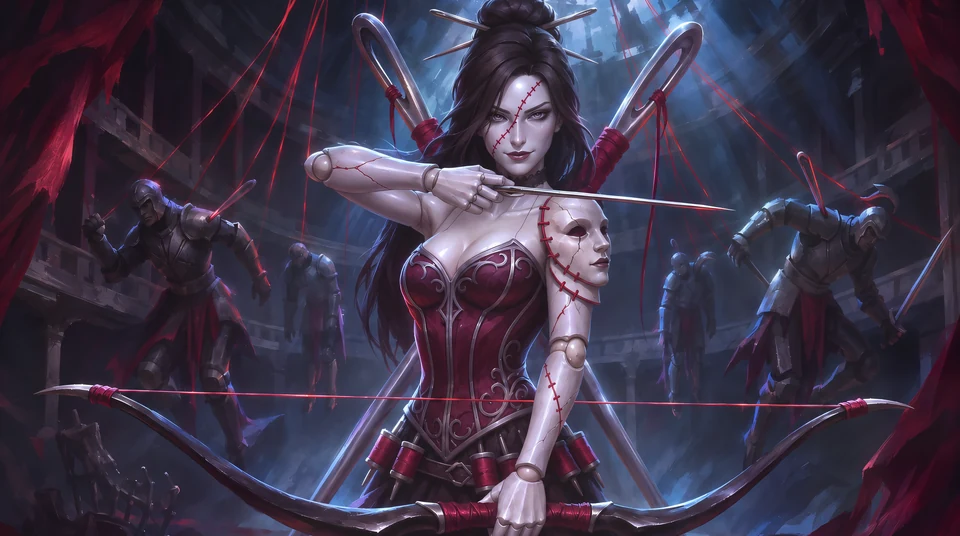
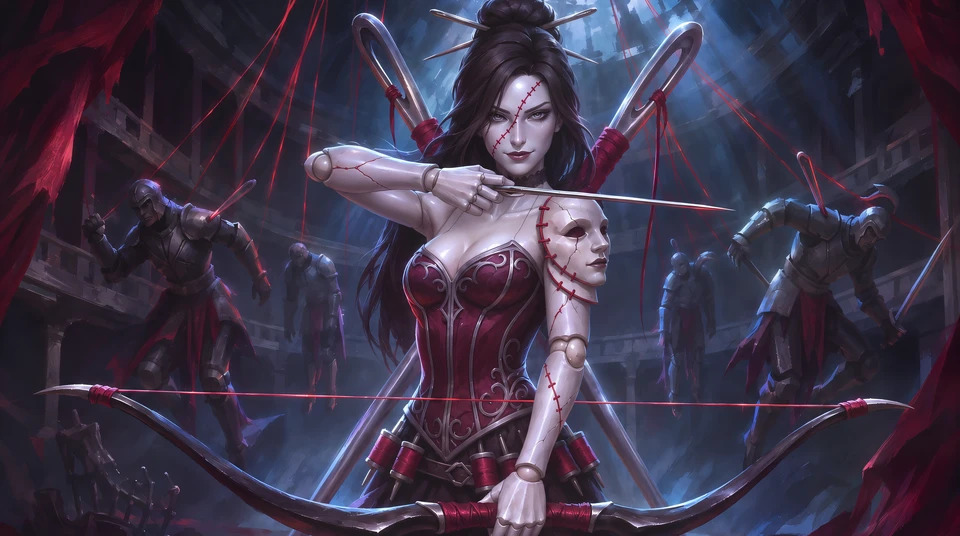
Hunter splash: Lace B bust -10% (L2, owner 11-14)
Claude-Session: https://claude.ai/code/session_01Fa986kEoxoUbsf7VZzVwQa

Changed region(s): [[0.375, 0.3881, 0.6562, 0.6567]]

diff --git a/presskit.html b/presskit.html
@@ -101,19 +101,19 @@
         </div>
         <h2>Hunter art</h2>
         <div class="pk-grid">
-          <a href="assets/img/hunters/lisette-2400.webp?v=2026-11-14x09" target="_blank"><img src="assets/img/hunters/lisette-960.webp?v=2026-11-14x09" alt="Lace splash art" loading="lazy"><span class="pk-cap">Lace</span></a>
-          <a href="assets/img/hunters/breaker-2400.webp?v=2026-11-14x09" target="_blank"><img src="assets/img/hunters/breaker-960.webp?v=2026-11-14x09" alt="Albert splash art" loading="lazy"><span class="pk-cap">Albert</span></a>
-          <a href="assets/img/hunters/vex-2400.webp?v=2026-11-14x09" target="_blank"><img src="assets/img/hunters/vex-960.webp?v=2026-11-14x09" alt="Vex splash art" loading="lazy"><span class="pk-cap">Vex</span></a>
-          <a href="assets/img/hunters/kael-2400.webp?v=2026-11-14x09" target="_blank"><img src="assets/img/hunters/kael-960.webp?v=2026-11-14x09" alt="Kael splash art" loading="lazy"><span class="pk-cap">Kael</span></a>
-          <a href="assets/img/hunters/claire-2400.webp?v=2026-11-14x09" target="_blank"><img src="assets/img/hunters/claire-960.webp?v=2026-11-14x09" alt="Neve splash art" loading="lazy"><span class="pk-cap">Neve</span></a>
-          <a href="assets/img/hunters/cinder-2400.webp?v=2026-11-14x09" target="_blank"><img src="assets/img/hunters/cinder-960.webp?v=2026-11-14x09" alt="Cinder splash art" loading="lazy"><span class="pk-cap">Cinder</span></a>
-          <a href="assets/img/hunters/tarek-2400.webp?v=2026-11-14x09" target="_blank"><img src="assets/img/hunters/tarek-960.webp?v=2026-11-14x09" alt="Tenzo splash art" loading="lazy"><span class="pk-cap">Tenzo</span></a>
-          <a href="assets/img/hunters/ryzz-2400.webp?v=2026-11-14x09" target="_blank"><img src="assets/img/hunters/ryzz-960.webp?v=2026-11-14x09" alt="Sparkle splash art" loading="lazy"><span class="pk-cap">Sparkle</span></a>
-          <a href="assets/img/hunters/grimble-2400.webp?v=2026-11-14x09" target="_blank"><img src="assets/img/hunters/grimble-960.webp?v=2026-11-14x09" alt="Grimble splash art" loading="lazy"><span class="pk-cap">Grimble</span></a>
-          <a href="assets/img/hunters/pip-2400.webp?v=2026-11-14x09" target="_blank"><img src="assets/img/hunters/pip-960.webp?v=2026-11-14x09" alt="Meeko splash art" loading="lazy"><span class="pk-cap">Meeko</span></a>
-          <a href="assets/img/hunters/sable-2400.webp?v=2026-11-14x09" target="_blank"><img src="assets/img/hunters/sable-960.webp?v=2026-11-14x09" alt="Sable splash art" loading="lazy"><span class="pk-cap">Sable</span></a>
-          <a href="assets/img/hunters/gill-2400.webp?v=2026-11-14x09" target="_blank"><img src="assets/img/hunters/gill-960.webp?v=2026-11-14x09" alt="Gill splash art" loading="lazy"><span class="pk-cap">Gill</span></a>
-          <a href="assets/img/hunters/motley-2400.webp?v=2026-11-14x09" target="_blank"><img src="assets/img/hunters/motley-960.webp?v=2026-11-14x09" alt="Motley splash art" loading="lazy"><span class="pk-cap">Motley</span></a>
+          <a href="assets/img/hunters/lisette-2400.webp?v=2026-11-14x18" target="_blank"><img src="assets/img/hunters/lisette-960.webp?v=2026-11-14x18" alt="Lace splash art" loading="lazy"><span class="pk-cap">Lace</span></a>
+          <a href="assets/img/hunters/breaker-2400.webp?v=2026-11-14x18" target="_blank"><img src="assets/img/hunters/breaker-960.webp?v=2026-11-14x18" alt="Albert splash art" loading="lazy"><span class="pk-cap">Albert</span></a>
+          <a href="assets/img/hunters/vex-2400.webp?v=2026-11-14x18" target="_blank"><img src="assets/img/hunters/vex-960.webp?v=2026-11-14x18" alt="Vex splash art" loading="lazy"><span class="pk-cap">Vex</span></a>
+          <a href="assets/img/hunters/kael-2400.webp?v=2026-11-14x18" target="_blank"><img src="assets/img/hunters/kael-960.webp?v=2026-11-14x18" alt="Kael splash art" loading="lazy"><span class="pk-cap">Kael</span></a>
+          <a href="assets/img/hunters/claire-2400.webp?v=2026-11-14x18" target="_blank"><img src="assets/img/hunters/claire-960.webp?v=2026-11-14x18" alt="Neve splash art" loading="lazy"><span class="pk-cap">Neve</span></a>
+          <a href="assets/img/hunters/cinder-2400.webp?v=2026-11-14x18" target="_blank"><img src="assets/img/hunters/cinder-960.webp?v=2026-11-14x18" alt="Cinder splash art" loading="lazy"><span class="pk-cap">Cinder</span></a>
+          <a href="assets/img/hunters/tarek-2400.webp?v=2026-11-14x18" target="_blank"><img src="assets/img/hunters/tarek-960.webp?v=2026-11-14x18" alt="Tenzo splash art" loading="lazy"><span class="pk-cap">Tenzo</span></a>
+          <a href="assets/img/hunters/ryzz-2400.webp?v=2026-11-14x18" target="_blank"><img src="assets/img/hunters/ryzz-960.webp?v=2026-11-14x18" alt="Sparkle splash art" loading="lazy"><span class="pk-cap">Sparkle</span></a>
+          <a href="assets/img/hunters/grimble-2400.webp?v=2026-11-14x18" target="_blank"><img src="assets/img/hunters/grimble-960.webp?v=2026-11-14x18" alt="Grimble splash art" loading="lazy"><span class="pk-cap">Grimble</span></a>
+          <a href="assets/img/hunters/pip-2400.webp?v=2026-11-14x18" target="_blank"><img src="assets/img/hunters/pip-960.webp?v=2026-11-14x18" alt="Meeko splash art" loading="lazy"><span class="pk-cap">Meeko</span></a>
+          <a href="assets/img/hunters/sable-2400.webp?v=2026-11-14x18" target="_blank"><img src="assets/img/hunters/sable-960.webp?v=2026-11-14x18" alt="Sable splash art" loading="lazy"><span class="pk-cap">Sable</span></a>
+          <a href="assets/img/hunters/gill-2400.webp?v=2026-11-14x18" target="_blank"><img src="assets/img/hunters/gill-960.webp?v=2026-11-14x18" alt="Gill splash art" loading="lazy"><span class="pk-cap">Gill</span></a>
+          <a href="assets/img/hunters/motley-2400.webp?v=2026-11-14x18" target="_blank"><img src="assets/img/hunters/motley-960.webp?v=2026-11-14x18" alt="Motley splash art" loading="lazy"><span class="pk-cap">Motley</span></a>
         </div>
         <h2>Boki art</h2>
         <div class="pk-grid pk-grid-boki" id="pk-boki" hidden></div>
@@ -151,7 +151,7 @@
   <div class="consent-b"><button class="btn btn-glass btn-sm" type="button" data-no>Decline</button><button class="btn btn-solid btn-sm" type="button" data-yes>Accept</button></div>
 </div>
 
-<script src="assets/site.js?v=276"></script>
+<script src="assets/site.js?v=277"></script>
 <script src="assets/signup.js?v=1"></script>
 <script src="/assets/topbar.js?v=6" defer></script>
 </body>

diff --git a/index.html b/index.html
@@ -170,7 +170,7 @@
       <button class="bk-arrow prev h-arrow" type="button" id="h-prev" aria-label="Previous Hunter"><svg viewBox="0 0 24 24" aria-hidden="true"><path d="M15 5l-7 7 7 7" fill="none" stroke="currentColor" stroke-width="2.6" stroke-linecap="round" stroke-linejoin="round"/></svg></button>
       <button class="bk-arrow next h-arrow" type="button" id="h-next" aria-label="Next Hunter"><svg viewBox="0 0 24 24" aria-hidden="true"><path d="M9 5l7 7-7 7" fill="none" stroke="currentColor" stroke-width="2.6" stroke-linecap="round" stroke-linejoin="round"/></svg></button>
       <div class="bk-count h-count"><b id="h-n">01</b> / <span>13</span></div>
-      <div class="shot"><img data-zoom id="h-art" src="assets/img/hunters/ryzz-1600.webp?v=2026-11-14x09" srcset="assets/img/hunters/ryzz-960.webp?v=2026-11-14x09 960w, assets/img/hunters/ryzz-1600.webp?v=2026-11-14x09 1600w, assets/img/hunters/ryzz-2400.webp?v=2026-11-14x09 2400w" sizes="(max-width: 720px) 260vw, (max-width: 1000px) and (orientation: portrait) 150vw, (max-width: 1280px) 100vw, 1240px" alt="Sparkle, the Storm Chaser" loading="lazy"><button class="h-expand" type="button" id="h-expand" aria-label="View full art"><svg viewBox="0 0 24 24" fill="none" stroke="currentColor" stroke-width="2.2" stroke-linecap="round" stroke-linejoin="round" aria-hidden="true"><path d="M14 4h6v6M10 20H4v-6M20 4l-6.5 6.5M4 20l6.5-6.5"/></svg></button></div>
+      <div class="shot"><img data-zoom id="h-art" src="assets/img/hunters/ryzz-1600.webp?v=2026-11-14x18" srcset="assets/img/hunters/ryzz-960.webp?v=2026-11-14x18 960w, assets/img/hunters/ryzz-1600.webp?v=2026-11-14x18 1600w, assets/img/hunters/ryzz-2400.webp?v=2026-11-14x18 2400w" sizes="(max-width: 720px) 260vw, (max-width: 1000px) and (orientation: portrait) 150vw, (max-width: 1280px) 100vw, 1240px" alt="Sparkle, the Storm Chaser" loading="lazy"><button class="h-expand" type="button" id="h-expand" aria-label="View full art"><svg viewBox="0 0 24 24" fill="none" stroke="currentColor" stroke-width="2.2" stroke-linecap="round" stroke-linejoin="round" aria-hidden="true"><path d="M14 4h6v6M10 20H4v-6M20 4l-6.5 6.5M4 20l6.5-6.5"/></svg></button></div>
       <div class="info" aria-live="polite">
         <div class="role" id="h-role" data-role="Skirmisher">Skirmisher</div>
         <h3 id="h-name">Sparkle</h3>
@@ -289,7 +289,7 @@
   <symbol id="i-play" viewBox="0 0 24 24"><path d="M7 4.5v15a1 1 0 0 0 1.5.86l12.4-7.5a1 1 0 0 0 0-1.72L8.5 3.64A1 1 0 0 0 7 4.5Z"/></symbol>
 </svg>
 
-<script src="assets/site.js?v=276"></script>
+<script src="assets/site.js?v=277"></script>
 <script src="assets/signup.js?v=1"></script>
 <script src="/assets/topbar.js?v=6" defer></script>
 </body>

diff --git a/devlog.html b/devlog.html
@@ -62,7 +62,7 @@
       <article class="dl-post" id="hunter-kits">
         <time datetime="2026-11-09">November 9, 2026</time>
         <h2>Hunter kits are on the site</h2>
-        <a class="dl-img" href="index.html#hunters"><img src="assets/img/hunters/breaker-1600.webp?v=2026-11-14x09" width="1600" height="893" alt="Albert, the Barnacle Knight" loading="lazy"></a>
+        <a class="dl-img" href="index.html#hunters"><img src="assets/img/hunters/breaker-1600.webp?v=2026-11-14x18" width="1600" height="893" alt="Albert, the Barnacle Knight" loading="lazy"></a>
         <p>Tap Abilities on any Hunter to see their full kit: weapon, passive, dash, both abilities and their ultimate.</p>
         <p>The kits come straight from the game files, so they stay current as we tune each Hunter.</p>
       </article>
@@ -90,7 +90,7 @@
   <div class="consent-b"><button class="btn btn-glass btn-sm" type="button" data-no>Decline</button><button class="btn btn-solid btn-sm" type="button" data-yes>Accept</button></div>
 </div>
 
-<script src="assets/site.js?v=276"></script>
+<script src="assets/site.js?v=277"></script>
 <script src="assets/signup.js?v=1"></script>
 <script src="/assets/topbar.js?v=6" defer></script>
 </body>

diff --git a/assets/site.js b/assets/site.js
@@ -192,7 +192,7 @@ if (heroIn && !calm) {
 
 /* ---------- Hunters: pick a Mask ---------- */
 // [id, name, title, has an up-to-date in-game model, role (from the kit's role line in the game)]
-const ART_V = "2026-11-14x09"; // bump when a Hunter splash changes
+const ART_V = "2026-11-14x18"; // bump when a Hunter splash changes
 const HUNTERS = [
   ["ryzz", "Sparkle", "The Storm Chaser", true, "Skirmisher"],
   ["tarek", "Tenzo", "The Stone Seer", true, "Brawler"],

diff --git a/privacy.html b/privacy.html
@@ -99,7 +99,7 @@
   <div class="consent-b"><button class="btn btn-glass btn-sm" type="button" data-no>Decline</button><button class="btn btn-solid btn-sm" type="button" data-yes>Accept</button></div>
 </div>
 
-<script src="assets/site.js?v=276"></script>
+<script src="assets/site.js?v=277"></script>
 <script src="assets/signup.js?v=1"></script>
 <script src="/assets/topbar.js?v=6" defer></script>
 </body>
